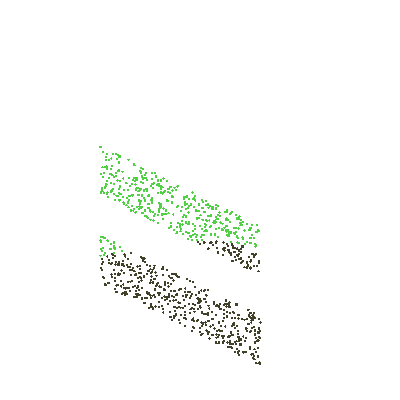
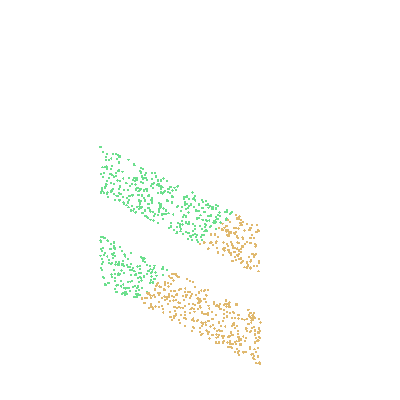
kmeans fix

Changed region(s): [[0.24, 0.57, 0.66, 0.9], [0.24, 0.39, 0.66, 0.69]]

diff --git a/Assignment 6/src/KMeansClustering.java b/Assignment 6/src/KMeansClustering.java
@@ -38,7 +38,7 @@ public class KMeansClustering extends AbstractMLAlgorithm {
   }
 
   private PointMapError runKMeans(int k) {
-    Map<Point, List<Point>> map = new HashMap<>(400);
+    Map<Point, List<Point>> map = new HashMap<>();
     Random rand = new Random();
 
     double xRangeMin = Double.POSITIVE_INFINITY;
@@ -73,27 +73,17 @@ public class KMeansClustering extends AbstractMLAlgorithm {
     return getConvergedMap(map);
   }
 
-  /**
-   * Calculates the distance between two points.
-   *
-   * @param p1 First point
-   * @param p2 Second point
-   * @return Distance between p1 and p2
-   */
-  private double getDistance(Point p1, Point p2) {
-    return Math.sqrt(Math.pow(p1.getX() - p2.getX(), 2) + Math.pow(p1.getY() - p2.getY(), 2));
-  }
-
   private PointMapError getConvergedMap(Map<Point, List<Point>> map) {
     int convergenceCount = 0;
     double percentageError = 100;
     double newError = Double.POSITIVE_INFINITY;
+
     do {
-      if (convergenceCount >= 100) {
-        break;
-      }
       double oldError = newError;
 
+      for (Map.Entry<Point, List<Point>> entry : map.entrySet()) {
+        entry.setValue(new ArrayList<>());
+      }
       // Assign points to centers in map
       for (Point p : pointList) {
         double minDist = Double.POSITIVE_INFINITY;
@@ -109,7 +99,7 @@ public class KMeansClustering extends AbstractMLAlgorithm {
       }
 
       // Calculates new center point at center of all points
-      Map<Point, List<Point>> newMap = new HashMap<>(400);
+      Map<Point, List<Point>> newMap = new HashMap<>();
       for (List<Point> clusterPoints : map.values()) {
         double sumX = 0.0;
         double sumY = 0.0;
@@ -128,10 +118,10 @@ public class KMeansClustering extends AbstractMLAlgorithm {
       map = newMap;
       convergenceCount++;
       if (Double.isNaN(percentageError)) {
-        percentageError = 1;
+        percentageError = 100;
       }
     }
-    while (percentageError > 0.01);
+    while (percentageError > 0.01 && convergenceCount <= 100);
     return new PointMapError(map, newError);
   }
 
@@ -141,5 +131,16 @@ public class KMeansClustering extends AbstractMLAlgorithm {
             .mapToDouble(point -> getDistance(point, newCenter))
             .average()
             .orElse(0.0);
+  }
+
+  /**
+   * Calculates the distance between two points.
+   *
+   * @param p1 First point
+   * @param p2 Second point
+   * @return Distance between p1 and p2
+   */
+  private double getDistance(Point p1, Point p2) {
+    return Math.sqrt(Math.pow(p1.getX() - p2.getX(), 2) + Math.pow(p1.getY() - p2.getY(), 2));
   }
 }

diff --git a/Assignment 6/src/PointMapError.java b/Assignment 6/src/PointMapError.java
@@ -3,6 +3,7 @@ import java.util.Map;
 
 /**
  * POJO class for holding a map returned in K-means clustering, along with its error value.
+ * The map should be in the format of <cluster center, list of points in cluster>
  */
 class PointMapError {
   private Map<Point, List<Point>> map;

diff --git a/Assignment 6/test/KMeansClusteringTest.java b/Assignment 6/test/KMeansClusteringTest.java
@@ -10,8 +10,6 @@ public class KMeansClusteringTest {
   private KMeansClustering k1;
   private KMeansClustering k2;
 
-  private Point p1;
-  private Point p2;
   @Before
   public void setUp() {
     k1 = new KMeansClustering();
